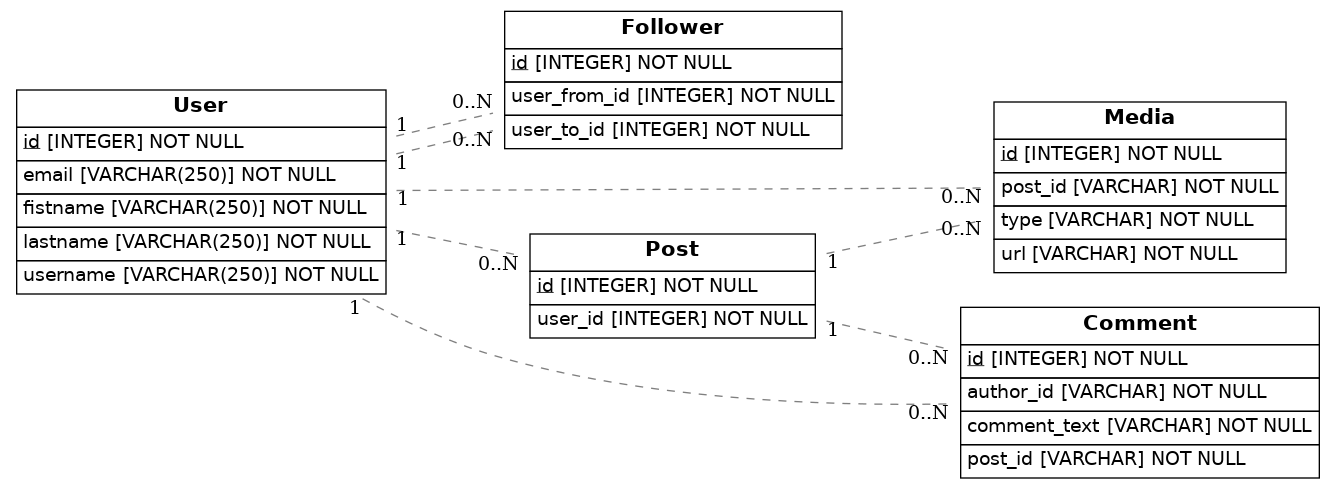
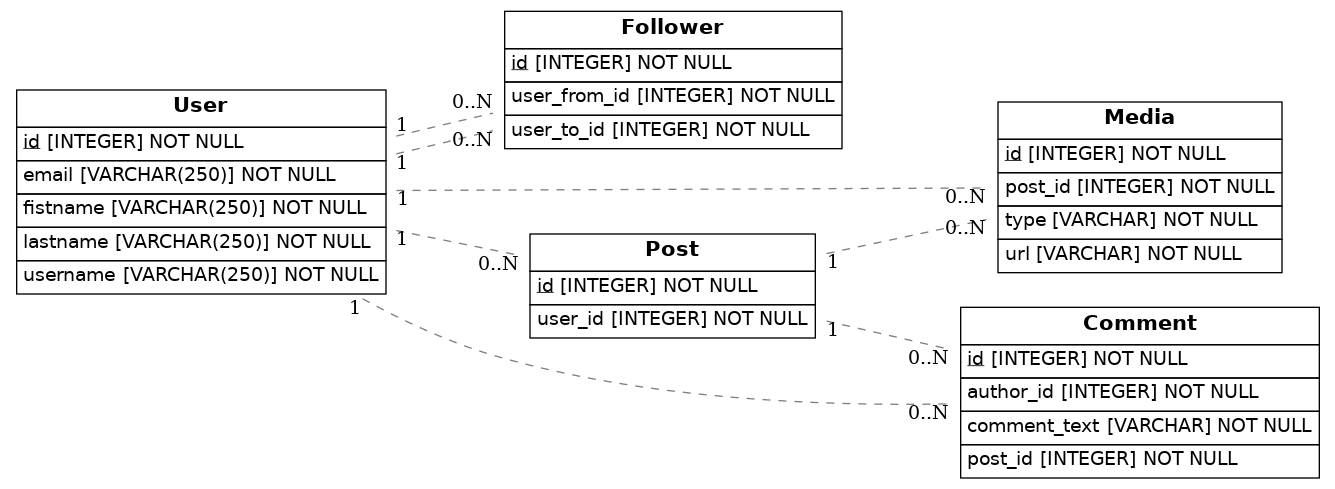
final

diff --git a/src/models.py b/src/models.py
@@ -27,7 +27,7 @@ class Media(Base):
     __tablename__ = 'Media'
     id = Column(Integer, primary_key=True)
     type = Column(Enum, nullable=False)
-    url = Column(String, ForeignKey('User.id'), nullable=False)
+    url = Column(String(250), ForeignKey('User.id'), nullable=False)
     post_id = Column(Integer, ForeignKey('Post.id'), nullable=False)
 
 class Post(Base):
@@ -42,7 +42,7 @@ class Comment(Base):
     # Here we define columns for the table address.
     # Notice that each column is also a normal Python instance attribute.
     id = Column(Integer, primary_key=True)
-    comment_text = Column(String, nullable=False)
+    comment_text = Column(String(250), nullable=False)
     author_id = Column(Integer, ForeignKey('User.id'), nullable=False)
     post_id = Column(Integer, ForeignKey('Post.id'), nullable=False)
 
